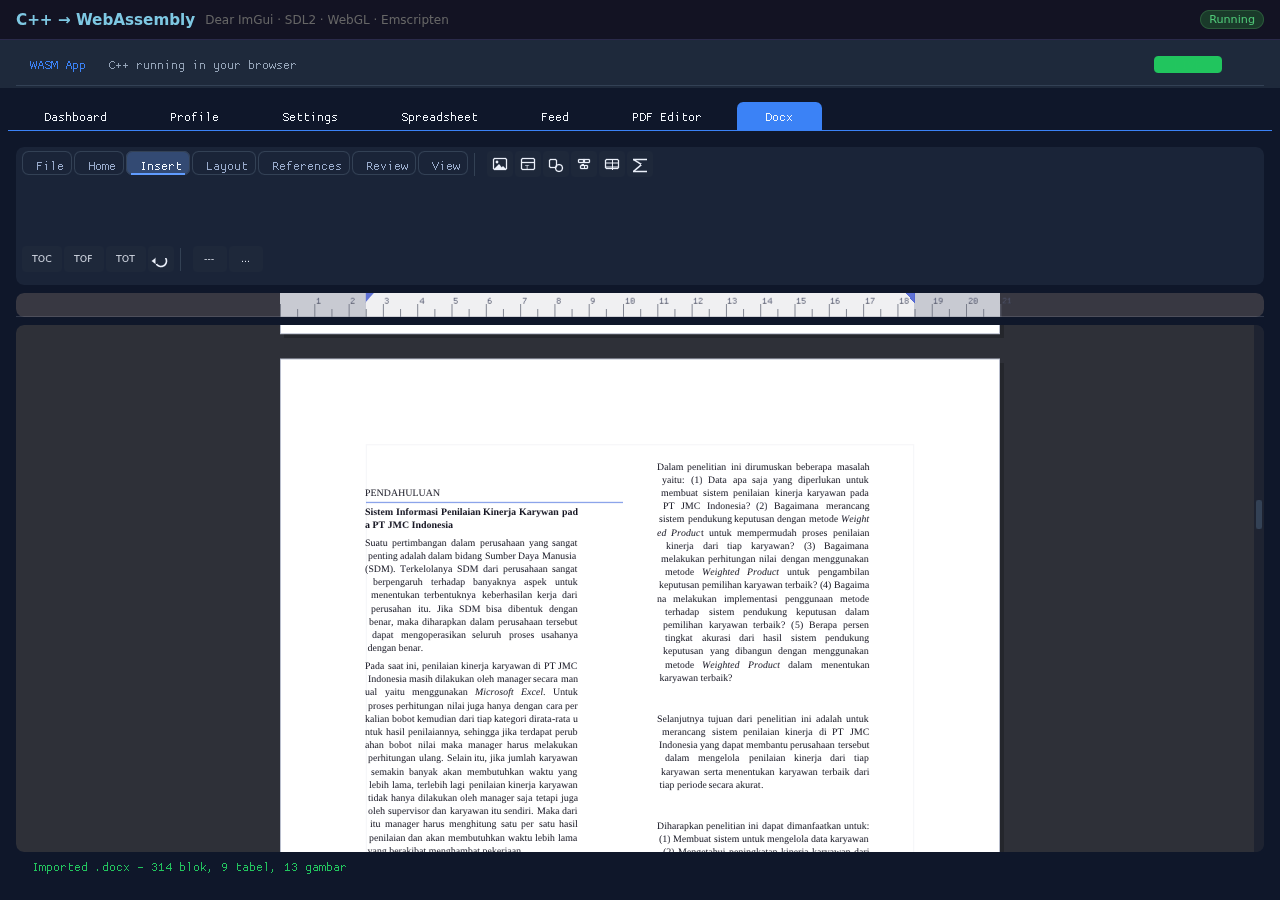
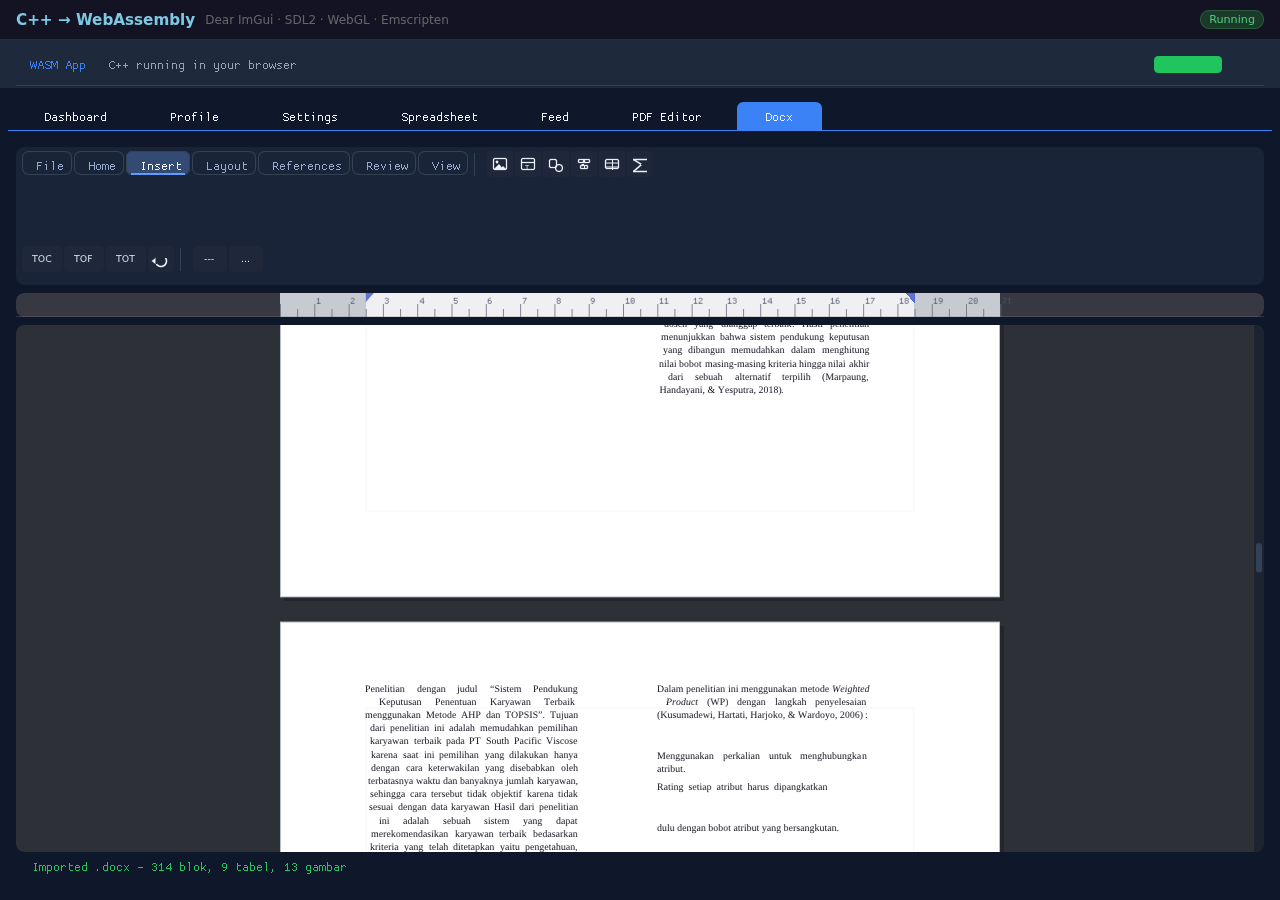
fix(layout): keep words whole when a run boundary lands mid-word
ImGui's CalcWordWrapPosition can only back up to a blank inside the span it is
given; Word splits runs at arbitrary points, so the break landed inside the word
('atrib' + 'ut.'). If the break is mid-word and the line already has content, the
whole word now moves to the next line. Screenshots recaptured from the imported
paper.

Changed region(s): [[0.2188, 0.4978, 0.7812, 0.9644], [0.2188, 0.3422, 0.7812, 0.4356], [0.9688, 0.56, 1.0, 0.5911]]

diff --git a/doctext.hpp b/doctext.hpp
@@ -308,6 +308,19 @@ inline ParaLayout LayoutParagraph(const char* text, std::vector<StyleSpan> spans
             if (j <= i) j = std::min(segEnd, i + std::max(1, U8Seq(text, i, n)));
             if (j > segEnd) j = segEnd;
 
+            // ImGui's wrap can only back up to a blank *inside the span it was
+            // given*. When the blank sits in a previous run (Word splits runs at
+            // arbitrary points), the break landed inside the word -- "atribut"
+            // became "atrib" + "ut." on the next line. If the break is mid-word
+            // and the line already has content, push the whole word to the next
+            // line instead.
+            if (j > i && j < segEnd && x > 0.5f &&
+                text[j] != ' ' && text[j] != '\t' && text[j] != '\n' &&
+                text[j - 1] != ' ') {
+                done = true;
+                break;                      // nothing consumed: new line starts at i
+            }
+
             Piece pc;
             pc.b0 = i; pc.b1 = j; pc.span = si; pc.x = x;
             if (sp.st.font)
